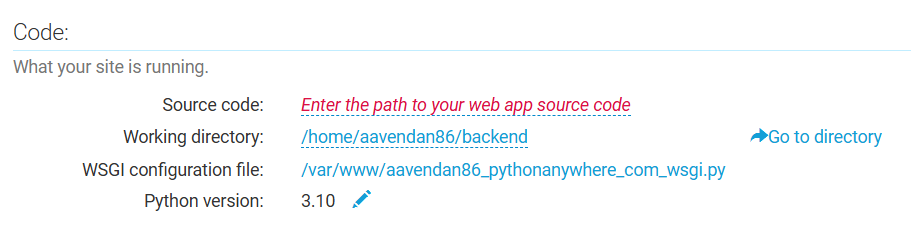
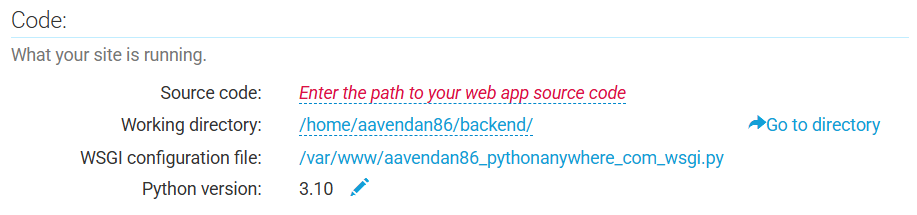
guia25

diff --git a/guias/2024/guia25.md b/guias/2024/guia25.md
@@ -174,7 +174,7 @@ theme: jekyll-theme-leap-day
 
 2. Modifique el archivo `backend/backend/settings.py` 
 
-    + Modifique el archivo `backend/backend/settings.py` con la ruta a los archivos estáticos **STATIC_ROOT**
+    + Agregue la ruta a los archivos estáticos **STATIC_ROOT**
 
         ```python
         ...
